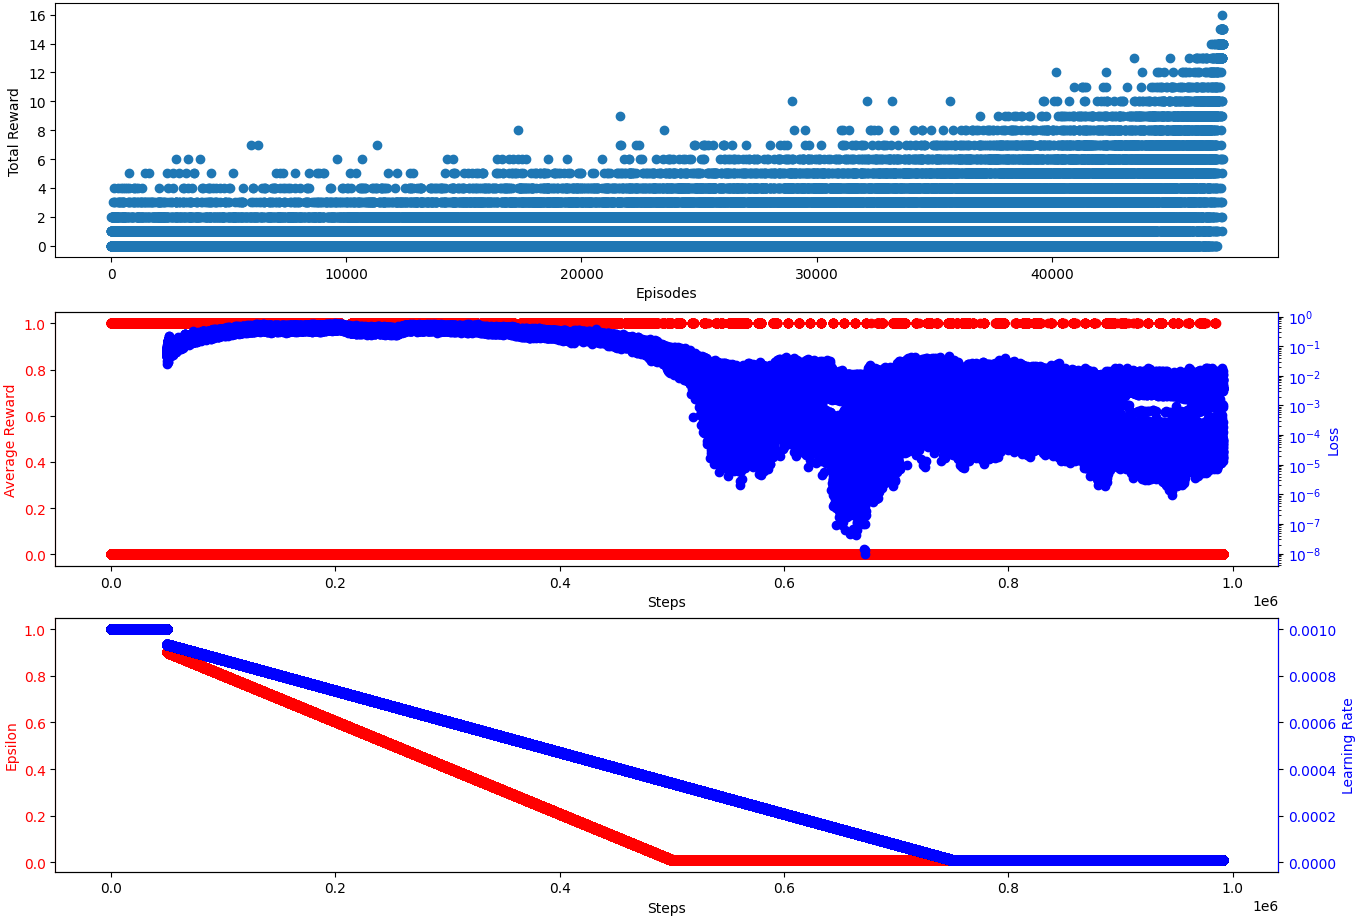
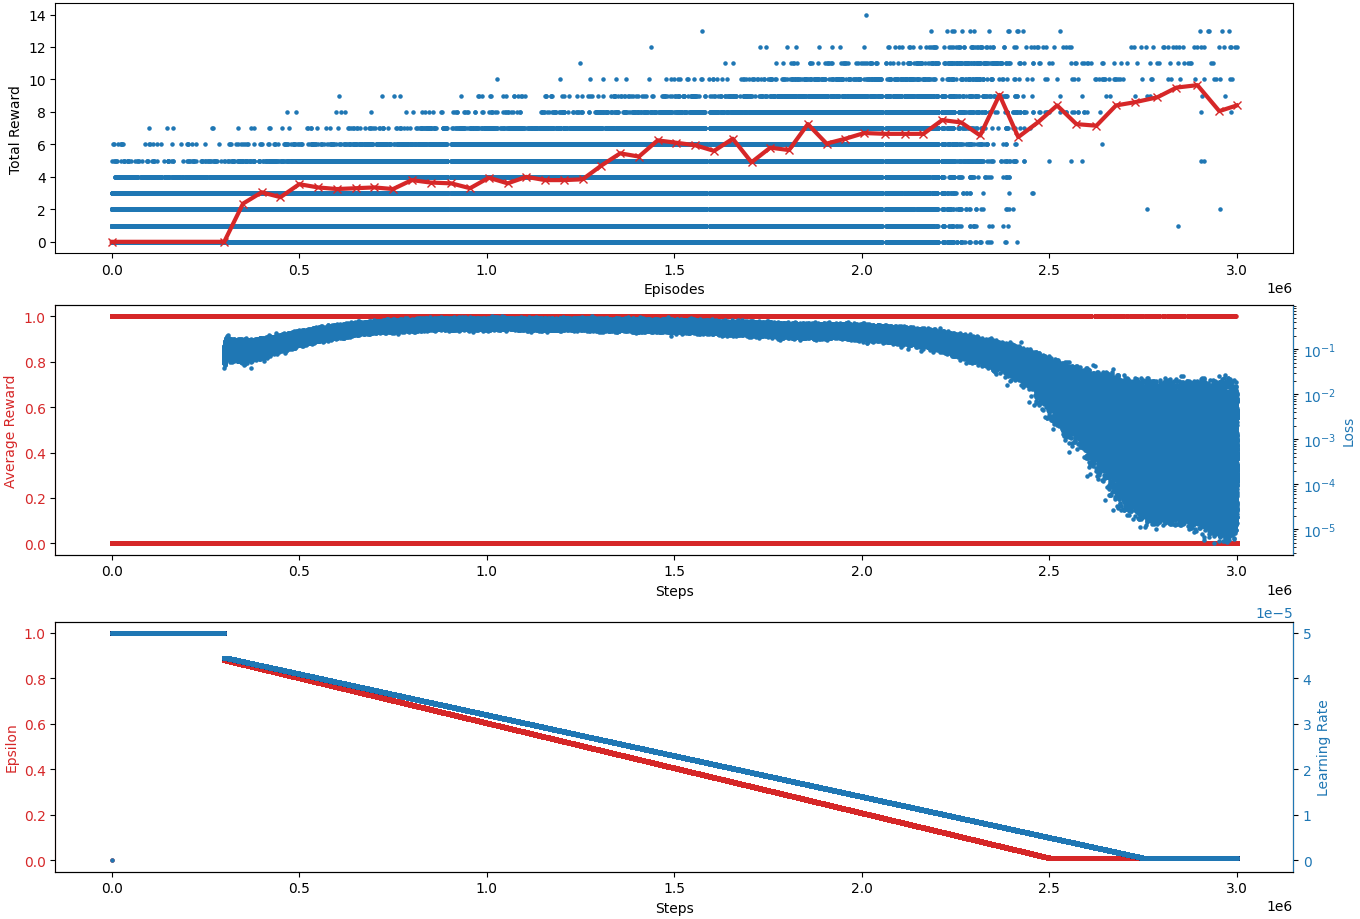
New config, issue with previous x axis scaling... WIP

diff --git a/sudoku/utils/general.py b/sudoku/utils/general.py
@@ -110,11 +110,11 @@ class Summarize(object):
             color="tab:red", ls="-", marker="x", label="Evaluation", lw=3.
         )
 
-        axs[0].set_xscale(
-            "function",
-            functions=(self._step_to_episode(), self._episode_to_step())
-        )
-        axs[0].margins(x=0.)
+        # axs[0].set_xscale(
+        #     "function",
+        #     functions=(self._step_to_episode(), self._episode_to_step())
+        # )
+        # axs[0].margins(x=0.)
 
         # Filter only filled values
         idx = ~np.isnan(self._idx_step)
@@ -137,7 +137,7 @@ class Summarize(object):
         ax1.spines['right'].set_color('tab:blue')
         ax1.set_ylabel("Loss", color="tab:blue")
         ax1.tick_params(axis="y", labelcolor="tab:blue")
-        axs[1].margins(x=0.)
+        # axs[1].margins(x=0.)
 
         # Epsilon/Learning rate
         axs[2].scatter(
@@ -156,7 +156,7 @@ class Summarize(object):
         ax2.spines['right'].set_color('tab:blue')
         ax2.set_ylabel("Learning Rate", color="tab:blue")
         ax2.tick_params(axis='y', labelcolor="tab:blue")
-        axs[2].margins(x=0.)
+        # axs[2].margins(x=0.)
 
         fig.savefig(self.file_path)
         plt.close(fig)

diff --git a/sudoku/configs/settings.py b/sudoku/configs/settings.py
@@ -24,26 +24,26 @@ num_episodes_test = 20
 grad_clip         = True
 clip_val          = 10
 saving_freq       = 50000
-log_freq          = 50
+log_freq          = 500
 eval_freq         = 50000
 record_freq       = 50000
 soft_epsilon      = 0.05
 
 # hyper params
-nsteps_train       = 10000000
+nsteps_train       = 3000000
 batch_size         = 256
-buffer_size        = 50000
+buffer_size        = 300000
 target_update_freq = 500
 gamma              = 0.99
 learning_freq      = 4
 state_history      = 4
-lr_begin           = 0.0005
-lr_end             = 0.000001
-lr_nsteps          = 7500000
+lr_begin           = 0.00005
+lr_end             = 0.0000005
+lr_nsteps          = 2750000
 eps_begin          = 1
 eps_end            = 0.01
-eps_nsteps         = 5000000
-learning_start     = 50000
+eps_nsteps         = 2500000
+learning_start     = 300000
 
 
 # Environment settings

diff --git a/sudoku/core/q_learning.py b/sudoku/core/q_learning.py
@@ -170,7 +170,7 @@ class QN(object):
 
         episodes = 0 # time control of nb of elasped episodes
         t = last_eval = last_record = 0 # time control of nb of steps
-        summarize.update_evaluation(1, reward=self.evaluate())
+        summarize.update_evaluation(0, reward=self.evaluate())
 
         pbar = tqdm(total=self.config.nsteps_train)
 
